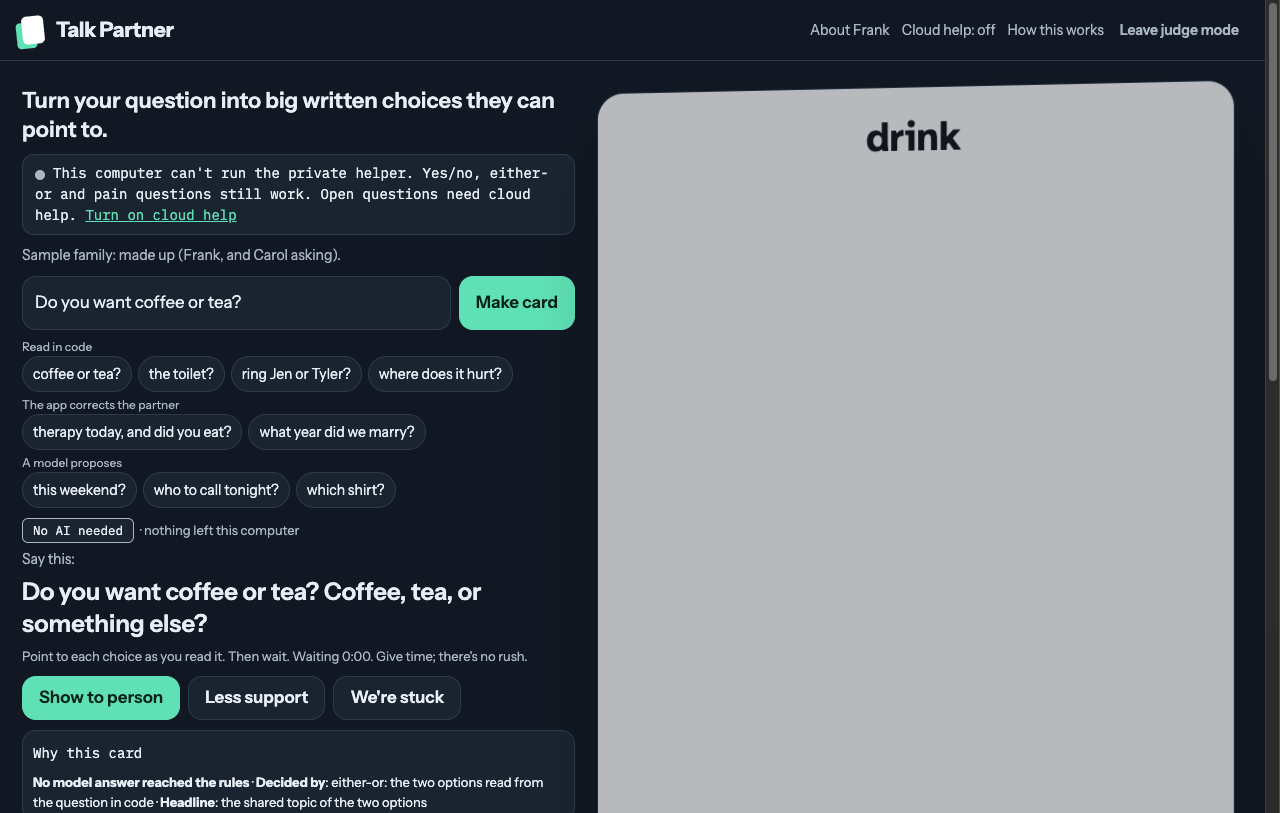
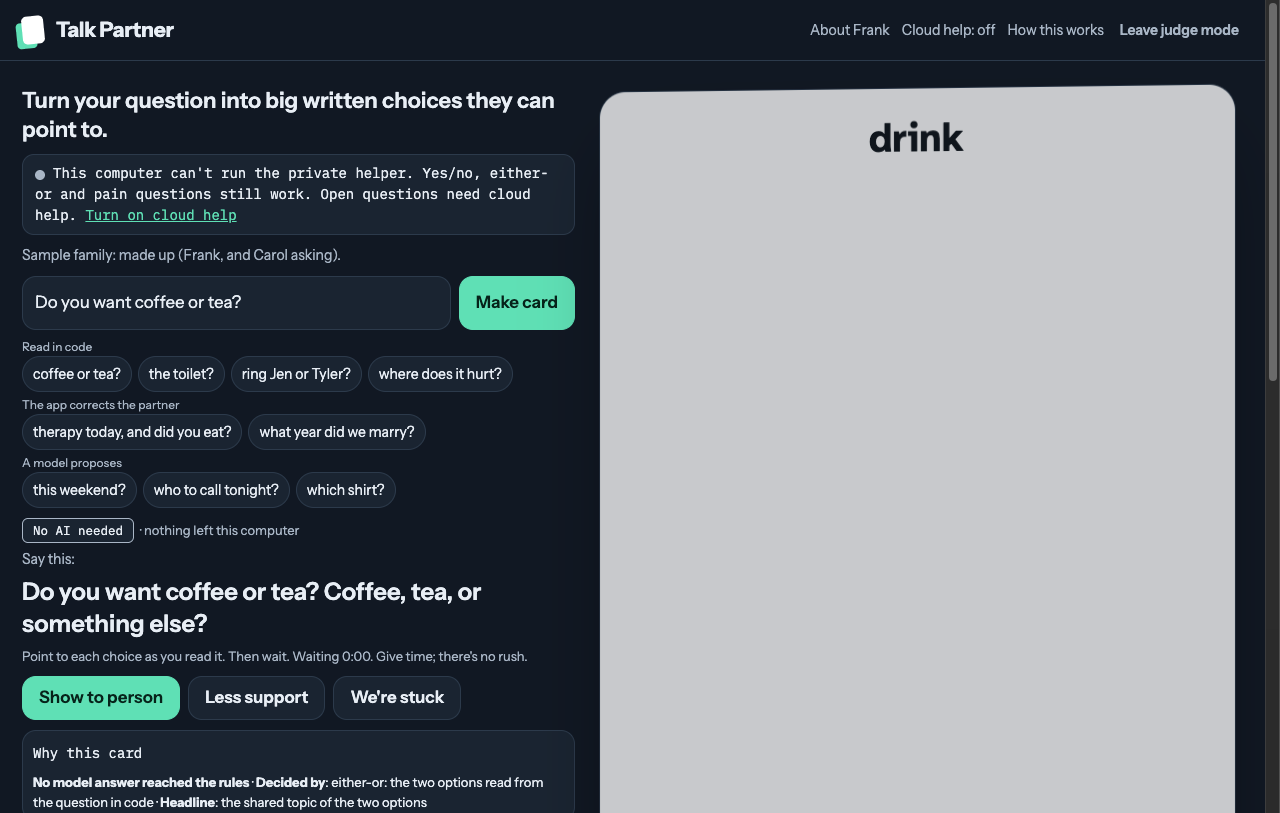
Evidence at 83a7da5: cloud 12/12, no-config 10/10, on-device 33/33
devlog/evidence_r2/: the outputs of scripts/e2e-cloud.mjs, e2e-noconfig.mjs and
e2e-ondevice.mjs (a second run of the on-device proof, after the truth pass),
each printing the commit it ran on. Tokens, keys and the app id are redacted.

Changed region(s): [[0.7812, 0.0923, 0.9688, 0.123], [0.6562, 0.1538, 0.75, 0.1845]]

diff --git a/devlog/evidence_r2/ondevice_at_head/RUN_LOG.md b/devlog/evidence_r2/ondevice_at_head/RUN_LOG.md
@@ -1,0 +1,205 @@
+# On-device proof run
+
+- date: 2026-11-16T22:34:16.746Z
+- commit: `83a7da5acc3448b11e7969943bd83a5ea00b72bb` (ondevice-proof-1-3-g83a7da5); working tree has uncommitted changes
+- browser: Chrome/157.0.8103.52, headless, attached on port 9335
+- app: http://localhost:5179/ (the dev server of this commit), judge mode, the made-up sample family (Frank; Carol asking; Jenny "Jen", Tyler; the lake, church, hardware store; pot roast, chili)
+- SDK: firebase 13.3.0, @firebase/ai 3.1.0
+
+## 1. Page load
+- status line right after load: "Getting the private helper ready on this computer. The first time after the browser starts can take about half a minute."
+- status line became "Ready on this computer." after 2.8 s (the model is loaded into memory by one fixed warm-up sentence, no About me in it)
+- PASS  the private helper is ready in this browser  (Ready on this computer.)
+- SDK report for the warm-up: `[ai-logic] leg=private mode=ONLY_ON_DEVICE inferenceSource=on_device ms=3143`
+- PASS  loading the app and warming the model contacted no host but the app itself  (33 requests, all to localhost:5179)
+- PASS  cloud help is off  (Cloud help: off)
+
+## 2. Cloud help OFF: the private step, with About me, on this computer
+
+**Asked:** "Who should we call tonight?"  (3149 ms from submit to card)
+- badge line: On this computer · nothing left this computer · Jenny, Tyler from About me
+- tiles on the person's card: Jenny / Tyler / someone else
+- why: The private step proposed: call · choice · Jenny, Tyler, doctor · Kept: Jenny, Tyler · Dropped: doctor (over the limit at this support level) · From About me (never sent): Jenny, Tyler · Decided by: the model proposed; code checked every choice · Headline: the model's topic
+- trace: Private step (on this computer): ran on this computer (3052 ms) · used for this card — got the question and the About me lists
+- trace: Cloud step (question only): did not run — not needed: the card made on this computer was good enough
+- trace: Rules in code: ran on this computer · used for this card — applied the card rules
+- what was sent: Nothing sent for this card.
+- SDK report (console): `[ai-logic] leg=private mode=ONLY_ON_DEVICE inferenceSource=on_device ms=3052`
+- requests to hosts other than localhost:5179: none
+- PASS  "Who should we call tonight?": badge "On this computer"  (On this computer)
+- PASS  "Who should we call tonight?": the SDK reported inferenceSource=on_device for the private step  ([ai-logic] leg=private mode=ONLY_ON_DEVICE inferenceSource=on_device ms=3052)
+- PASS  "Who should we call tonight?": the card offers the family's own people from About me  (Jenny, Tyler)
+- PASS  "Who should we call tonight?": nothing was sent and no other host was contacted  (0 outside requests)
+  screenshot: `devlog/evidence_r2/ondevice_at_head/01-on-device-who-to-call.png`
+  screenshot: `devlog/evidence_r2/ondevice_at_head/01-on-device-who-to-call-full.png`
+
+**Asked:** "What do you want to do this weekend?"  (3331 ms from submit to card)
+- badge line: On this computer · nothing left this computer · lake, church from About me
+- tiles on the person's card: lake / church / something else
+- why: The private step proposed: weekend · choice · lake, church, home · Kept: lake, church · Dropped: home (over the limit at this support level) · From About me (never sent): lake, church · Decided by: the model proposed; code checked every choice · Headline: the model's topic
+- trace: Private step (on this computer): ran on this computer (3265 ms) · used for this card — got the question and the About me lists
+- trace: Cloud step (question only): did not run — not needed: the card made on this computer was good enough
+- trace: Rules in code: ran on this computer · used for this card — applied the card rules
+- what was sent: Nothing sent for this card.
+- SDK report (console): `[ai-logic] leg=private mode=ONLY_ON_DEVICE inferenceSource=on_device ms=3265`
+- requests to hosts other than localhost:5179: none
+- PASS  "What do you want to do this weekend?": badge "On this computer"  (On this computer)
+- PASS  "What do you want to do this weekend?": the SDK reported inferenceSource=on_device for the private step  ([ai-logic] leg=private mode=ONLY_ON_DEVICE inferenceSource=on_device ms=3265)
+- PASS  "What do you want to do this weekend?": the card offers the family's own places from About me  (lake, church)
+- PASS  "What do you want to do this weekend?": nothing was sent and no other host was contacted  (0 outside requests)
+  screenshot: `devlog/evidence_r2/ondevice_at_head/02-on-device-weekend.png`
+
+**Asked:** "What would you like for dinner?"  (3953 ms from submit to card)
+- badge line: On this computer · nothing left this computer · pot roast, chili from About me
+- tiles on the person's card: pot roast / chili / something else
+- why: The private step proposed: dinner · choice · pot roast, chili, other · Kept: pot roast, chili · Dropped: other (over the limit at this support level) · From About me (never sent): pot roast, chili · Decided by: the model proposed; code checked every choice · Headline: the model's topic
+- trace: Private step (on this computer): ran on this computer (3761 ms) · used for this card — got the question and the About me lists
+- trace: Cloud step (question only): did not run — not needed: the card made on this computer was good enough
+- trace: Rules in code: ran on this computer · used for this card — applied the card rules
+- what was sent: Nothing sent for this card.
+- SDK report (console): `[ai-logic] leg=private mode=ONLY_ON_DEVICE inferenceSource=on_device ms=3761`
+- requests to hosts other than localhost:5179: none
+- PASS  "What would you like for dinner?": badge "On this computer"  (On this computer)
+- PASS  "What would you like for dinner?": the SDK reported inferenceSource=on_device for the private step  ([ai-logic] leg=private mode=ONLY_ON_DEVICE inferenceSource=on_device ms=3761)
+- PASS  "What would you like for dinner?": the card offers the family's own foods from About me  (pot roast, chili)
+- PASS  "What would you like for dinner?": nothing was sent and no other host was contacted  (0 outside requests)
+
+**Asked:** "Where shall we go on Sunday?"  (3535 ms from submit to card)
+- badge line: On this computer · nothing left this computer · the lake, church from About me
+- tiles on the person's card: the lake / church / somewhere else
+- why: The private step proposed: Sunday · choice · the lake, church, hardware store · either-or options: the lake / church / hardware store · Kept: the lake, church · Dropped: hardware store (over the limit at this support level) · From About me (never sent): the lake, church · Decided by: the model proposed; code checked every choice · Headline: the model's topic
+- trace: Private step (on this computer): ran on this computer (3461 ms) · used for this card — got the question and the About me lists
+- trace: Cloud step (question only): did not run — not needed: the card made on this computer was good enough
+- trace: Rules in code: ran on this computer · used for this card — applied the card rules
+- what was sent: Nothing sent for this card.
+- SDK report (console): `[ai-logic] leg=private mode=ONLY_ON_DEVICE inferenceSource=on_device ms=3461`
+- requests to hosts other than localhost:5179: none
+- PASS  "Where shall we go on Sunday?": badge "On this computer"  (On this computer)
+- PASS  "Where shall we go on Sunday?": the SDK reported inferenceSource=on_device for the private step  ([ai-logic] leg=private mode=ONLY_ON_DEVICE inferenceSource=on_device ms=3461)
+- PASS  "Where shall we go on Sunday?": the card offers the family's own places from About me  (the lake, church)
+- PASS  "Where shall we go on Sunday?": nothing was sent and no other host was contacted  (0 outside requests)
+
+A card that code decides alone runs no model, even here:
+
+**Asked:** "Do you want coffee or tea?"  (311 ms from submit to card)
+- badge line: No AI needed · nothing left this computer
+- tiles on the person's card: coffee / tea / something else
+- why: No model answer reached the rules · Decided by: either-or: the two options read from the question in code · Headline: the shared topic of the two options
+- trace: Private step (on this computer): did not run — not needed: this card is made by rules alone
+- trace: Cloud step (question only): did not run — not needed: this card is made by rules alone
+- trace: Rules in code: ran on this computer · used for this card — applied the card rules
+- what was sent: Nothing sent for this card.
+- SDK report (console): (no model call)
+- requests to hosts other than localhost:5179: none
+- PASS  "Do you want coffee or tea?": "No AI needed", no model call, instant  (No AI needed, 0 model calls)
+
+## 3. Cloud help ON: the two steps side by side
+- PASS  cloud help was turned on through the consent screen  (Cloud help: on)
+
+**Asked:** "Who should we call tonight?"  (3812 ms from submit to card)
+- badge line: On this computer · nothing left this computer · Jenny, Tyler from About me
+- tiles on the person's card: Jenny / Tyler / someone else
+- why: The private step proposed: call · choice · Jenny, Tyler, Doctor · either-or options: Jenny / Tyler / Doctor · Kept: Jenny, Tyler · Dropped: Doctor (a name that is not in About me) · From About me (never sent): Jenny, Tyler · Decided by: the model proposed; code checked every choice · Headline: the model's topic
+- trace: Private step (on this computer): ran on this computer (3749 ms) · used for this card — got the question and the About me lists
+- trace: Cloud step (question only): did not run — not needed: the card made on this computer was good enough
+- trace: Rules in code: ran on this computer · used for this card — applied the card rules
+- notes: Every choice on this card is from About me, so cloud help is not asked: it never sees About me.
+- what was sent: Nothing sent for this card.
+- SDK report (console): `[ai-logic] leg=private mode=ONLY_ON_DEVICE inferenceSource=on_device ms=3749`
+- requests to hosts other than localhost:5179: none
+- PASS  an all-About-me card stays on this computer with cloud help on: the cloud is not asked  (On this computer; 0 outside requests)
+  screenshot: `devlog/evidence_r2/ondevice_at_head/03-cloud-on-card-stays-here.png`
+
+**Asked:** "Which shirt for the doctor?"  (5559 ms from submit to card)
+- badge line: Cloud help (question only) · the question left this computer, no About me words in it
+- tiles on the person's card: this one / that one / something else
+- why: The cloud step proposed: doctor shirt · choice · blue shirt, white shirt · Added by code: this one (The real options are not known: hold up two and point to each as you ask.), that one (The real options are not known: hold up two and point to each as you ask.) · Dropped: blue shirt (an invented detail of their own things), white shirt (an invented detail of their own things) · Decided by: the model proposed; code checked every choice · Headline: the model's topic
+- trace: Private step (on this computer): ran on this computer (3308 ms) — got the question and the About me lists
+- trace: Cloud step (question only): ran in the cloud (2099 ms) · used for this card — got the question only, About me words swapped out
+- trace: Rules in code: ran on this computer · used for this card — applied the card rules
+- notes: The real options are not known: hold up two and point to each as you ask.
+- what was sent: Sent for this card: `Partner asks: Which shirt for the doctor?`
+- SDK report (console): `[ai-logic] leg=private mode=ONLY_ON_DEVICE inferenceSource=on_device ms=3308`, `[ai-logic] leg=stripped mode=PREFER_IN_CLOUD inferenceSource=in_cloud ms=2099`
+- requests to hosts other than localhost:5179: GET https://www.google.com/recaptcha/enterprise.js; POST https://content-firebaseappcheck.googleapis.com/v1/projects/talk-partner/apps/[app-id]:exchangeDebugToken; GET https://www.gstatic.com/recaptcha/releases/4i3aN5wAweL7i3ADI7BSX4B-/recaptcha__en.js [from the browser cache, no network]; GET https://www.google.com/recaptcha/enterprise/anchor; POST https://firebasevertexai.googleapis.com/v1beta/projects/talk-partner/models/gemini-3.5-flash-lite:generateContent
+- PASS  a card the device could not make well goes to the cloud step (inferenceSource=in_cloud)  (Cloud help (question only); [ai-logic] leg=private mode=ONLY_ON_DEVICE inferenceSource=on_device ms=3308 [ai-logic] leg=stripped mode=PREFER_IN_CLOUD inferenceSource=in_cloud ms=2099)
+- PASS  the request went through Firebase AI Logic  (www.google.com, content-firebaseappcheck.googleapis.com, www.gstatic.com, firebasevertexai.googleapis.com)
+- PASS  what was sent is the question only  (Partner asks: Which shirt for the doctor?)
+- PASS  both steps ran for this card: the private step on this computer, then the question-only step in the cloud  ([ai-logic] leg=private mode=ONLY_ON_DEVICE inferenceSource=on_device ms=3308 [ai-logic] leg=stripped mode=PREFER_IN_CLOUD inferenceSource=in_cloud ms=2099)
+  screenshot: `devlog/evidence_r2/ondevice_at_head/04-hybrid-device-then-cloud.png`
+
+## 4. Network OFF: the question-only step falls back to this computer
+
+**Asked:** "Which shirt for the doctor?"  (6367 ms from submit to card)
+- badge line: Ran on this computer (offline) · nothing left this computer
+- tiles on the person's card: this one / that one / something else
+- why: The question-only step (run on this computer, offline) proposed: shirt · choice · blue shirt, green shirt · either-or options: blue shirt / green shirt · Added by code: this one (The real options are not known: hold up two and point to each as you ask.), that one (The real options are not known: hold up two and point to each as you ask.) · Dropped: blue shirt (an invented detail of their own things), green shirt (an invented detail of their own things) · Decided by: the model proposed; code checked every choice · Headline: the model's topic
+- trace: Private step (on this computer): ran on this computer (3021 ms) — got the question and the About me lists
+- trace: Cloud step (question only): ran on this computer (3148 ms) · used for this card — the cloud was unreachable, so the stripped question ran on this computer
+- trace: Rules in code: ran on this computer · used for this card — applied the card rules
+- notes: The real options are not known: hold up two and point to each as you ask. | Ran on this computer (offline). Nothing was sent.
+- what was sent: Not sent for this card. Cloud help would have got only this: `Partner asks: Which shirt for the doctor?`
+- SDK report (console): `[ai-logic] leg=private mode=ONLY_ON_DEVICE inferenceSource=on_device ms=3021`, `[ai-logic] leg=stripped mode=PREFER_IN_CLOUD inferenceSource=on_device ms=3148`
+- requests to hosts other than localhost:5179: POST https://firebasevertexai.googleapis.com/v1beta/projects/talk-partner/models/gemini-3.5-flash-lite:generateContent [failed: net::ERR_INTERNET_DISCONNECTED]
+- PASS  PREFER_IN_CLOUD fell back to the device: the SDK reported inferenceSource=on_device for the question-only step  ([ai-logic] leg=private mode=ONLY_ON_DEVICE inferenceSource=on_device ms=3021 [ai-logic] leg=stripped mode=PREFER_IN_CLOUD inferenceSource=on_device ms=3148)
+- PASS  badge "Ran on this computer (offline)", and the card says nothing was sent  (Ran on this computer (offline) · nothing left this computer)
+- PASS  every request to another host failed or was read from the browser cache (the network was off)  (firebasevertexai.googleapis.com: net::ERR_INTERNET_DISCONNECTED)
+  screenshot: `devlog/evidence_r2/ondevice_at_head/05-offline-fallback.png`
+
+**Asked:** "Who should we call tonight?"  (3337 ms from submit to card)
+- badge line: On this computer · nothing left this computer · Jenny, Tyler from About me
+- tiles on the person's card: Jenny / Tyler / someone else
+- why: The private step proposed: call · choice · Jenny, Tyler, doctor · Kept: Jenny, Tyler · Dropped: doctor (over the limit at this support level) · From About me (never sent): Jenny, Tyler · Decided by: the model proposed; code checked every choice · Headline: the model's topic
+- trace: Private step (on this computer): ran on this computer (3151 ms) · used for this card — got the question and the About me lists
+- trace: Cloud step (question only): did not run — not needed: the card made on this computer was good enough
+- trace: Rules in code: ran on this computer · used for this card — applied the card rules
+- what was sent: Nothing sent for this card.
+- SDK report (console): `[ai-logic] leg=private mode=ONLY_ON_DEVICE inferenceSource=on_device ms=3151`
+- requests to hosts other than localhost:5179: none
+- PASS  offline, the private step works as before  (Jenny / Tyler / someone else)
+
+- privacy receipt for this session: 9 cards this session. Left this computer: 4505 bytes in 1 request (27 bytes of question text). Withheld before sending: 0 names, 0 other About me words. Checked after sending: 0 About me words and 0 photos in the sent text. 1 cloud step ran on this computer instead (cloud unreachable): nothing left.
+- session line: Judge mode · This session: 1 no AI · 7 on this computer · 1 cloud help · 0 no card · 0 failed
+
+## 5. The same questions in a Chrome without the model (throwaway profile), cloud help on
+- status line: "This computer can't run the private helper. Yes/no, either-or and pain questions still work. Open questions need cloud help. Turn on cloud help"
+
+**Asked:** "Who should we call tonight?"  (1791 ms from submit to card)
+- badge line: Cloud help (question only) · the question left this computer, no About me words in it
+- tiles on the person's card: family / friend / someone else
+- why: The cloud step proposed: call tonight · choice · Person A, family, friend · Kept: family, friend · Dropped: Person A (a label the cloud made up) · Decided by: the model proposed; code checked every choice · Headline: the model's topic
+- trace: Private step (on this computer): did not run — the private helper is not ready on this computer
+- trace: Cloud step (question only): ran in the cloud (1693 ms) · used for this card — got the question only, About me words swapped out
+- trace: Rules in code: ran on this computer · used for this card — applied the card rules
+- what was sent: Sent for this card: `Partner asks: Who should we call tonight?`
+- SDK report (console): `[ai-logic] leg=stripped mode=PREFER_IN_CLOUD inferenceSource=in_cloud ms=1693`
+- requests to hosts other than localhost:5179: GET https://www.google.com/recaptcha/enterprise.js; POST https://content-firebaseappcheck.googleapis.com/v1/projects/talk-partner/apps/[app-id]:exchangeDebugToken; OPTIONS https://content-firebaseappcheck.googleapis.com/v1/projects/talk-partner/apps/[app-id]:exchangeDebugToken; GET https://www.gstatic.com/recaptcha/releases/4i3aN5wAweL7i3ADI7BSX4B-/recaptcha__en.js; OPTIONS https://firebasevertexai.googleapis.com/v1beta/projects/talk-partner/models/gemini-3.5-flash-lite:generateContent; POST https://firebasevertexai.googleapis.com/v1beta/projects/talk-partner/models/gemini-3.5-flash-lite:generateContent; GET https://www.google.com/recaptcha/enterprise/anchor
+- PASS  without the model, "Who should we call tonight?" is answered by the cloud step, which has no About me  (Cloud help (question only); sent: Partner asks: Who should we call tonight?)
+  screenshot: `devlog/evidence_r2/ondevice_at_head/06-no-model-cloud-who-to-call.png`
+
+**Asked:** "What would you like for dinner?"  (1723 ms from submit to card)
+- badge line: Cloud help (question only) · the question left this computer, no About me words in it
+- tiles on the person's card: chicken / fish / something else
+- why: The cloud step proposed: dinner · choice · chicken, fish, soup · Kept: chicken, fish · Dropped: soup (over the limit at this support level) · Decided by: the model proposed; code checked every choice · Headline: the model's topic
+- trace: Private step (on this computer): did not run — the private helper is not ready on this computer
+- trace: Cloud step (question only): ran in the cloud (1588 ms) · used for this card — got the question only, About me words swapped out
+- trace: Rules in code: ran on this computer · used for this card — applied the card rules
+- what was sent: Sent for this card: `Partner asks: What would you like for dinner?`
+- SDK report (console): `[ai-logic] leg=stripped mode=PREFER_IN_CLOUD inferenceSource=in_cloud ms=1588`
+- requests to hosts other than localhost:5179: POST https://firebasevertexai.googleapis.com/v1beta/projects/talk-partner/models/gemini-3.5-flash-lite:generateContent
+- PASS  without the model, "What would you like for dinner?" is answered by the cloud step, which has no About me  (Cloud help (question only); sent: Partner asks: What would you like for dinner?)
+
+**Asked:** "What should we get Jenny for her birthday?"  (1332 ms from submit to card)
+- badge line: Cloud help (question only) · the question left this computer, 1 name and 0 other About me words swapped out
+- tiles on the person's card: book / clothes / something else
+- why: The cloud step proposed: Jenny birthday · choice · book, clothes, voucher · Kept: book, clothes · Dropped: voucher (over the limit at this support level) · Decided by: the model proposed; code checked every choice · Headline: the model's topic
+- trace: Private step (on this computer): did not run — the private helper is not ready on this computer
+- trace: Cloud step (question only): ran in the cloud (1221 ms) · used for this card — got the question only, About me words swapped out
+- trace: Rules in code: ran on this computer · used for this card — applied the card rules
+- what was sent: Sent for this card: `Partner asks: What should we get Person A for her birthday?`
+- SDK report (console): `[ai-logic] leg=stripped mode=PREFER_IN_CLOUD inferenceSource=in_cloud ms=1221`
+- requests to hosts other than localhost:5179: POST https://firebasevertexai.googleapis.com/v1beta/projects/talk-partner/models/gemini-3.5-flash-lite:generateContent
+- PASS  a name in the question is swapped before it is sent: "Person A", not "Jenny"  (Partner asks: What should we get Person A for her birthday?; · the question left this computer, 1 name and 0 other About me words swapped out)
+  screenshot: `devlog/evidence_r2/ondevice_at_head/07-no-model-cloud-person-a.png`
+
+## Result
+33/33 checks passed at commit `83a7da5acc3448b11e7969943bd83a5ea00b72bb`.
